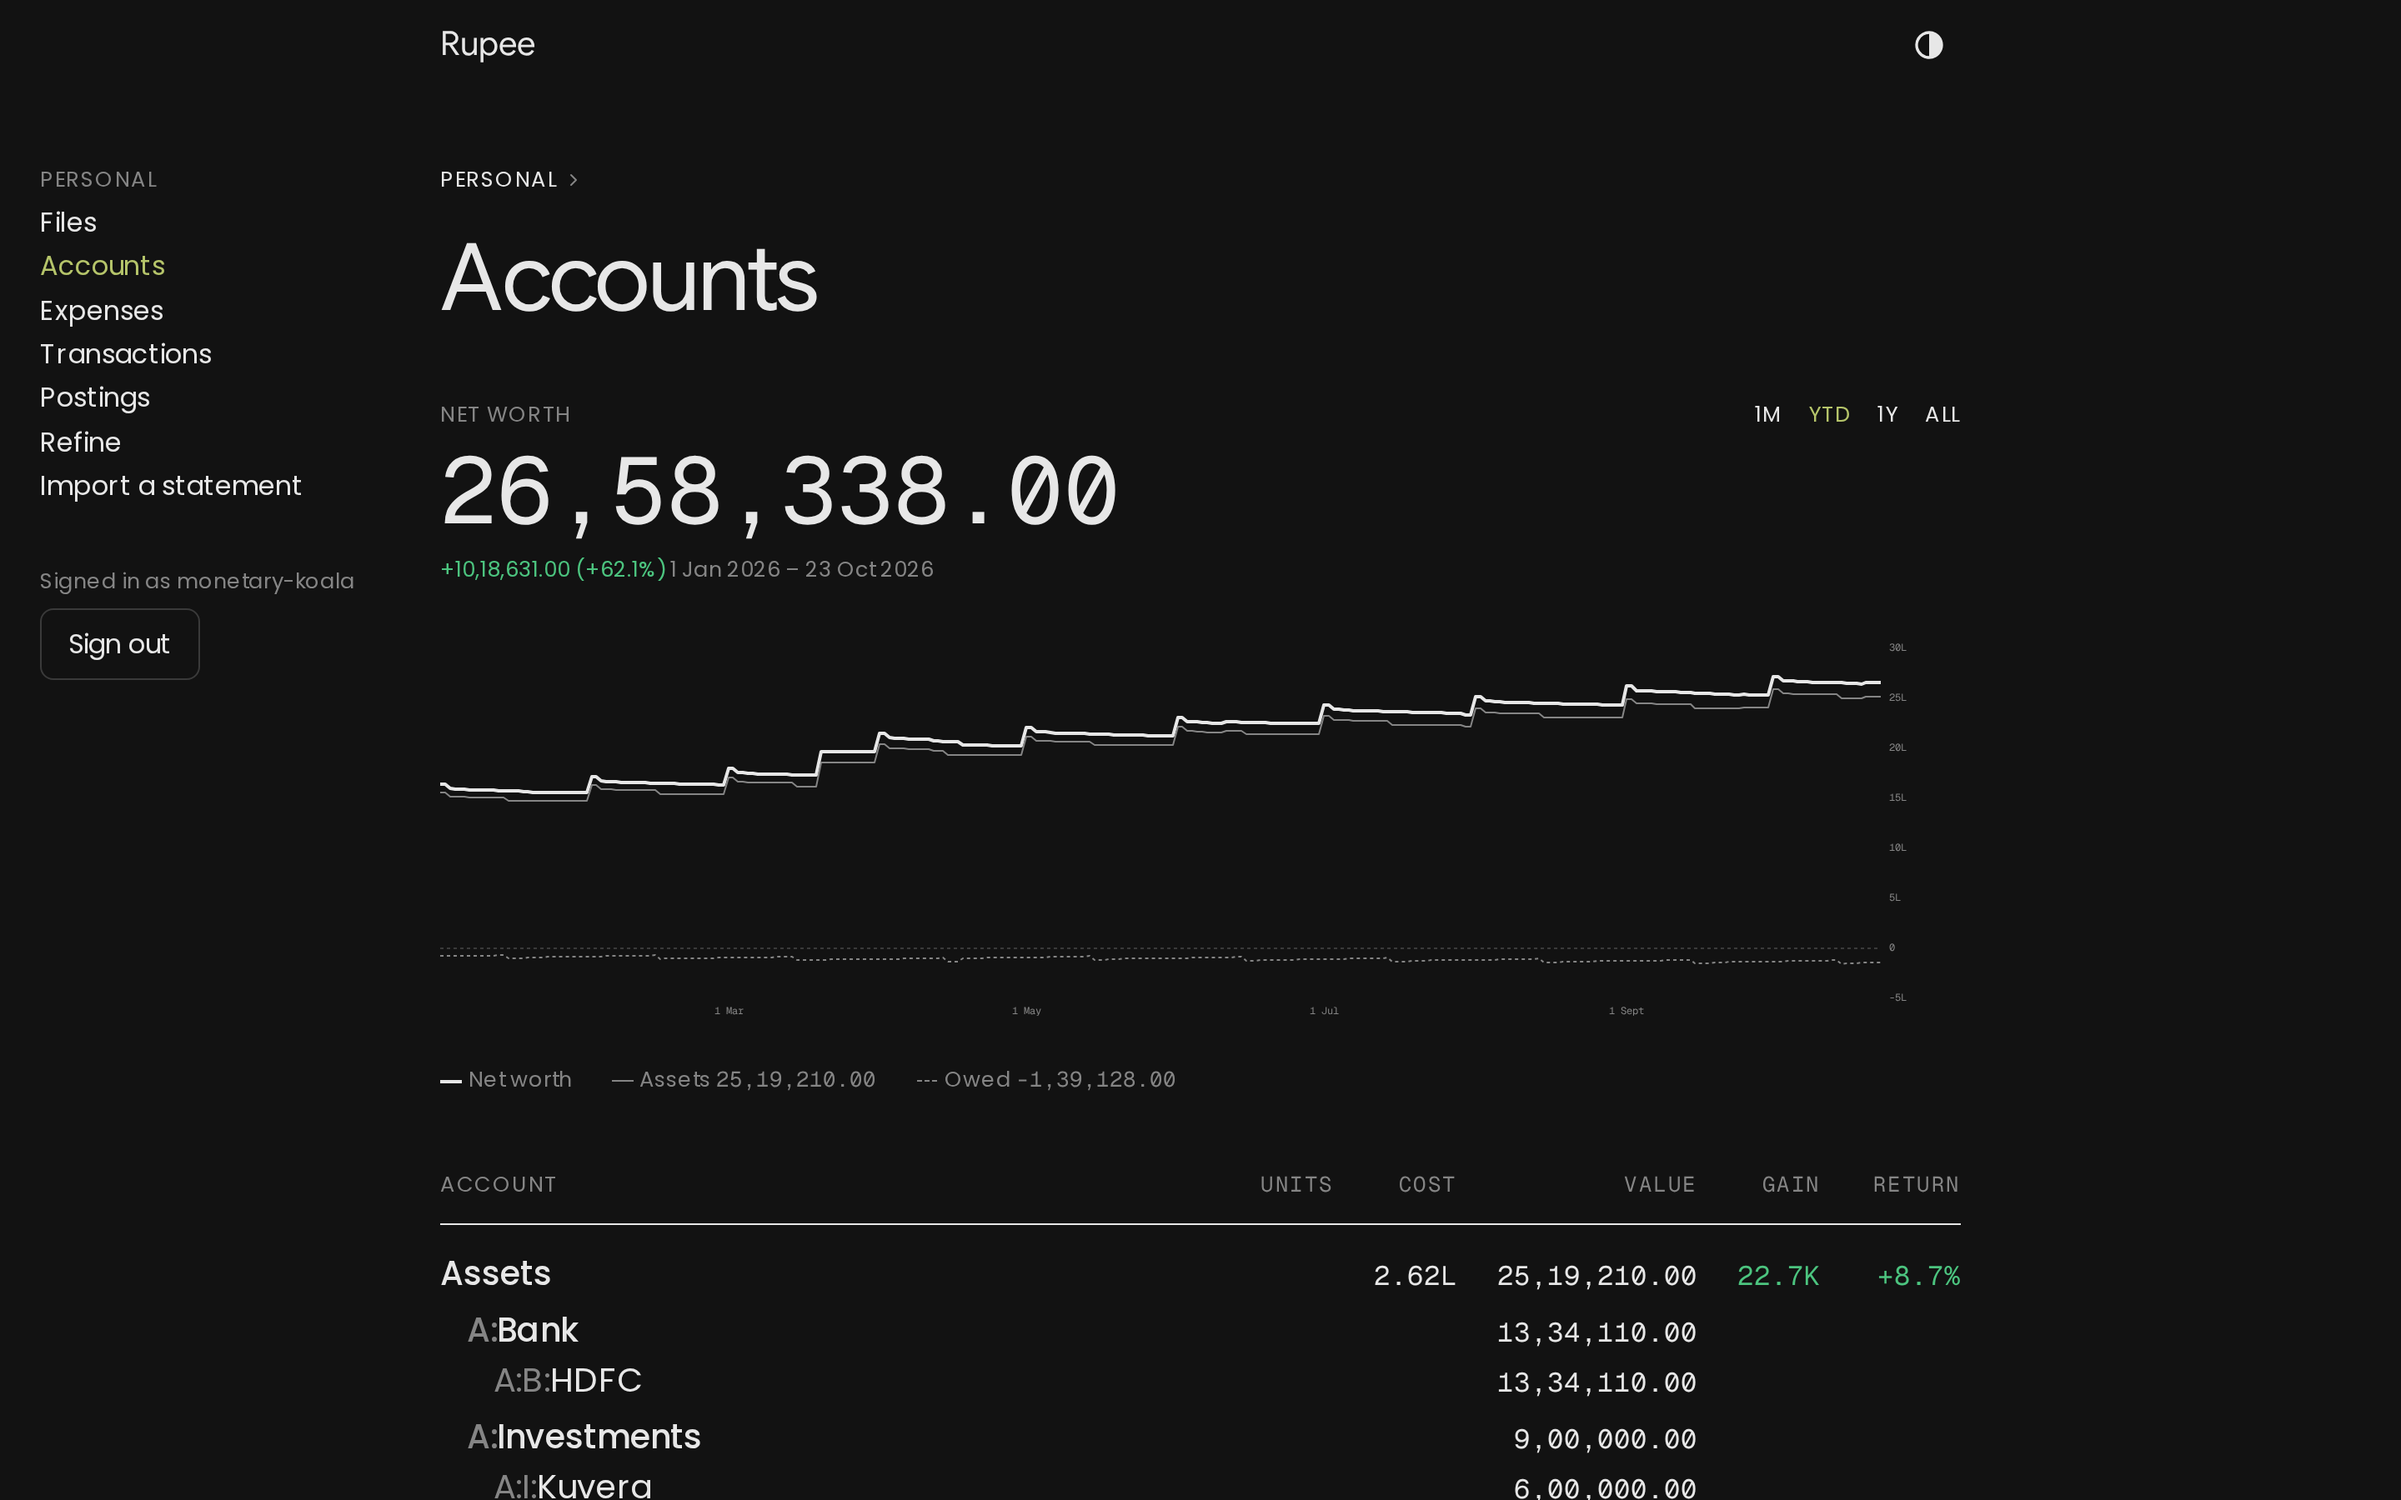
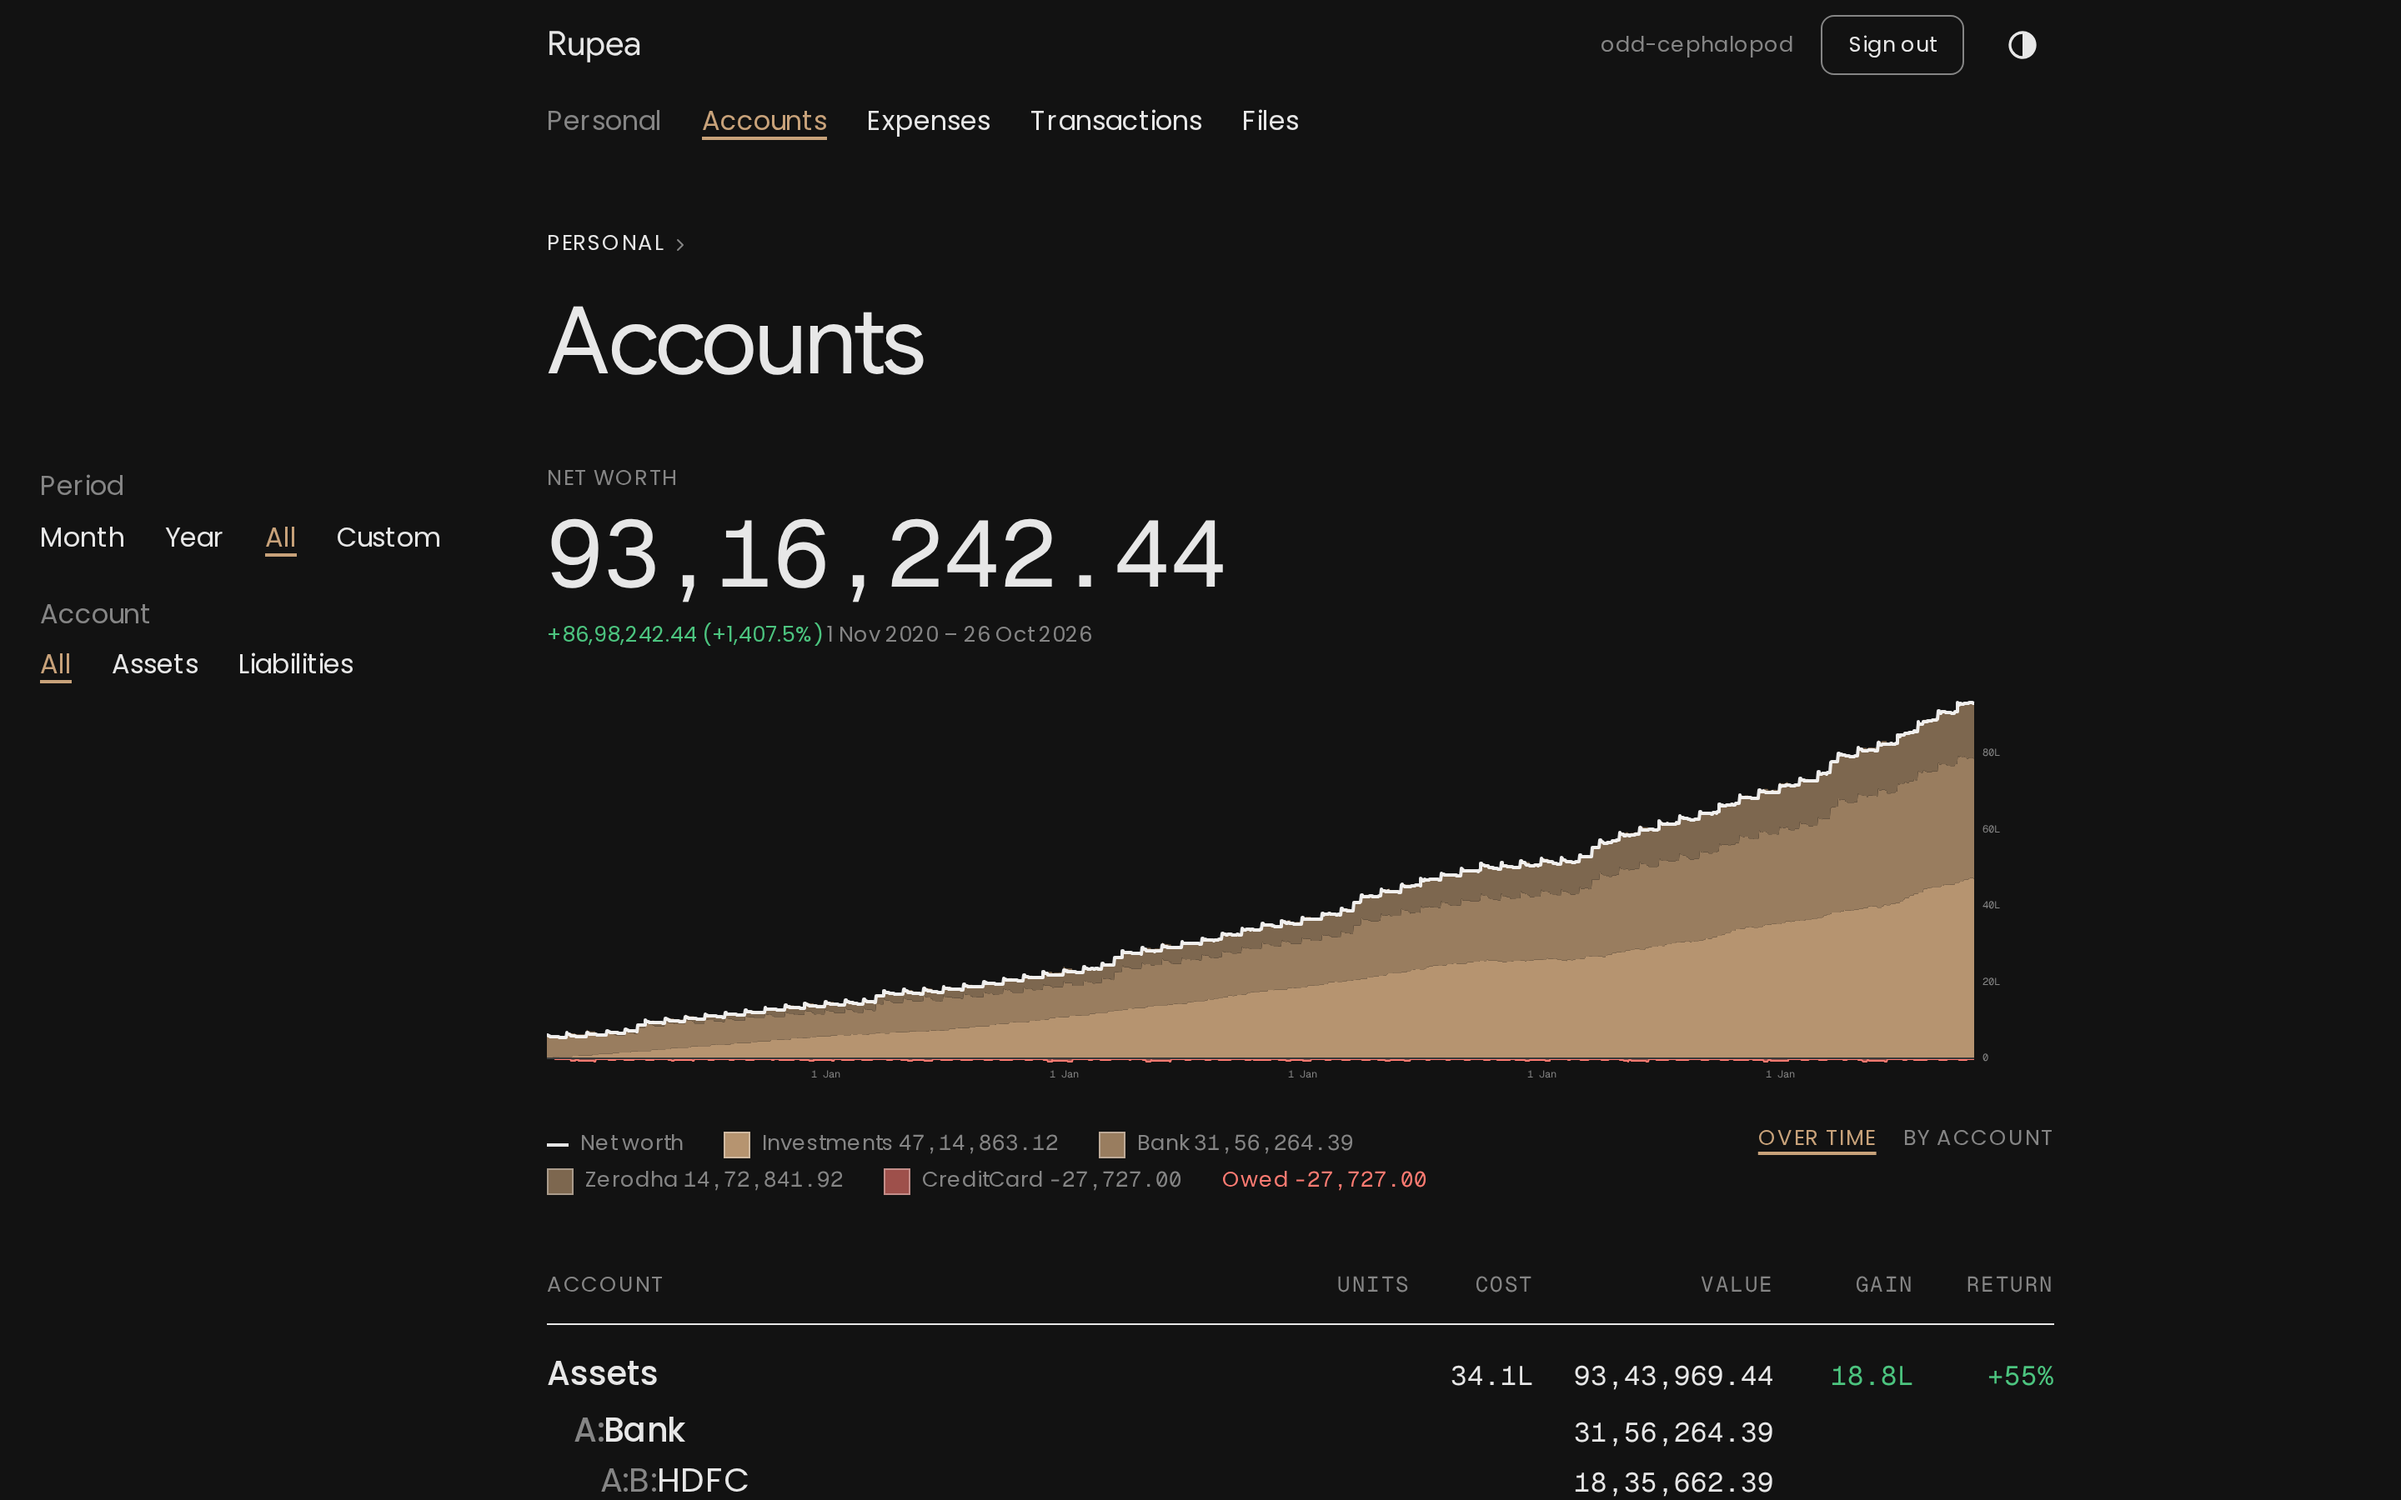
docs(readme): retake the screenshots with six years of data, uncaptioned

diff --git a/README.md b/README.md
@@ -14,16 +14,28 @@ Every account, every statement, one ledger, in files you own.
 		<td width="50%">
 			<picture>
 				<source media="(prefers-color-scheme: dark)" srcset="docs/images/expenses-dark.png">
-				<img alt="Spending by month and by account" src="docs/images/expenses-light.png">
+				<img alt="Spending by month over two years" src="docs/images/expenses-light.png">
 			</picture>
-			<p align="center">Where the money went, month by month</p>
 		</td>
 		<td width="50%">
 			<picture>
-				<source media="(prefers-color-scheme: dark)" srcset="docs/images/accounts-dark.png">
-				<img alt="Net worth over time and what each account holds" src="docs/images/accounts-light.png">
+				<source media="(prefers-color-scheme: dark)" srcset="docs/images/expenses-flow-dark.png">
+				<img alt="How spending divides into accounts" src="docs/images/expenses-flow-light.png">
 			</picture>
-			<p align="center">Net worth, and what each account holds</p>
+		</td>
+	</tr>
+	<tr>
+		<td width="50%">
+			<picture>
+				<source media="(prefers-color-scheme: dark)" srcset="docs/images/accounts-dark.png">
+				<img alt="Net worth over six years, by account" src="docs/images/accounts-light.png">
+			</picture>
+		</td>
+		<td width="50%">
+			<picture>
+				<source media="(prefers-color-scheme: dark)" srcset="docs/images/investments-dark.png">
+				<img alt="Investments narrowed to one account" src="docs/images/investments-light.png">
+			</picture>
 		</td>
 	</tr>
 	<tr>
@@ -32,14 +44,12 @@ Every account, every statement, one ledger, in files you own.
 				<source media="(prefers-color-scheme: dark)" srcset="docs/images/transactions-dark.png">
 				<img alt="Transactions from every file, newest first" src="docs/images/transactions-light.png">
 			</picture>
-			<p align="center">Every transaction, searchable</p>
 		</td>
 		<td width="50%">
 			<picture>
 				<source media="(prefers-color-scheme: dark)" srcset="docs/images/postings-dark.png">
 				<img alt="Postings to one account and its children" src="docs/images/postings-light.png">
 			</picture>
-			<p align="center">Postings, narrowed to one account</p>
 		</td>
 	</tr>
 	<tr>
@@ -48,14 +58,12 @@ Every account, every statement, one ledger, in files you own.
 				<source media="(prefers-color-scheme: dark)" srcset="docs/images/lots-dark.png">
 				<img alt="The lots of a holding, with gains on each sale" src="docs/images/lots-light.png">
 			</picture>
-			<p align="center">Lots, with the gain on each sale</p>
 		</td>
 		<td width="50%">
 			<picture>
 				<source media="(prefers-color-scheme: dark)" srcset="docs/images/files-dark.png">
 				<img alt="A ledger file, plain text you own" src="docs/images/files-light.png">
 			</picture>
-			<p align="center">Plain-text ledger files you own</p>
 		</td>
 	</tr>
 </table>
